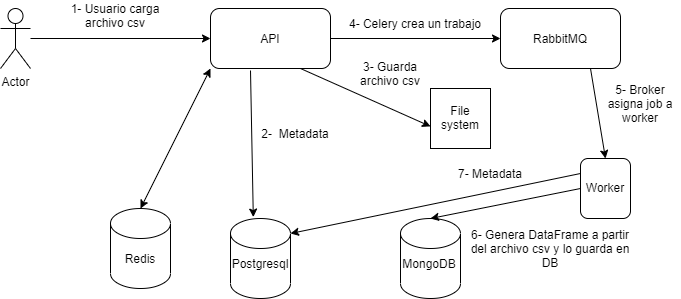
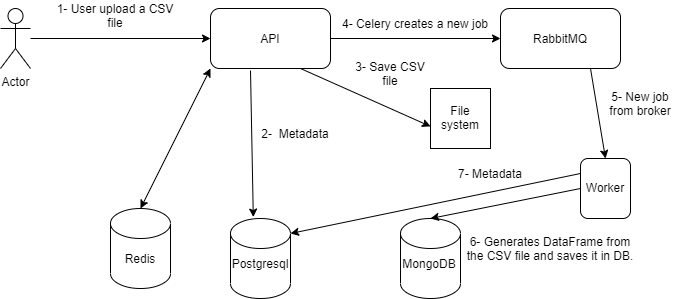
README.md files translated

diff --git a/data/migrations/0207_remove_customer_users_alter_customer_customer_code_and_more.py b/data/migrations/0207_remove_customer_users_alter_customer_customer_code_and_more.py
@@ -1,0 +1,37 @@
+# Generated by Django 4.0.2 on 2022-03-02 16:55
+
+from django.db import migrations, models
+
+
+class Migration(migrations.Migration):
+
+    dependencies = [
+        ('data', '0206_alter_customer_customer_code_and_more'),
+    ]
+
+    operations = [
+        migrations.RemoveField(
+            model_name='customer',
+            name='users',
+        ),
+        migrations.AlterField(
+            model_name='customer',
+            name='customer_code',
+            field=models.UUIDField(default='911e1051-cce7-4f6f-8b44-f7a2e318c2cd', primary_key=True, serialize=False),
+        ),
+        migrations.AlterField(
+            model_name='customerinput',
+            name='customer_input_code',
+            field=models.UUIDField(default='ec625526-a7c4-4933-9809-f60406bde6f6', primary_key=True, serialize=False),
+        ),
+        migrations.AlterField(
+            model_name='customerusergroup',
+            name='customer_user_group_code',
+            field=models.UUIDField(default='c9f83c90-839d-46d4-8d70-3de60c5fa854', editable=False, primary_key=True, serialize=False),
+        ),
+        migrations.AlterField(
+            model_name='product',
+            name='product_code',
+            field=models.UUIDField(default='5b571ddf-f26e-41bd-96f2-4977bcad6559', primary_key=True, serialize=False),
+        ),
+    ]

diff --git a/data/migrations/0204_alter_customer_customer_code_and_more.py b/data/migrations/0204_alter_customer_customer_code_and_more.py
@@ -1,0 +1,33 @@
+# Generated by Django 4.0.2 on 2022-03-02 16:33
+
+from django.db import migrations, models
+
+
+class Migration(migrations.Migration):
+
+    dependencies = [
+        ('data', '0203_alter_customer_customer_code_and_more'),
+    ]
+
+    operations = [
+        migrations.AlterField(
+            model_name='customer',
+            name='customer_code',
+            field=models.UUIDField(default='8e8c605b-72e5-409f-b8ca-a0dab728463f', primary_key=True, serialize=False),
+        ),
+        migrations.AlterField(
+            model_name='customerinput',
+            name='customer_input_code',
+            field=models.UUIDField(default='17b6d586-72ae-4709-a1dd-d4b4a1c9adc5', primary_key=True, serialize=False),
+        ),
+        migrations.AlterField(
+            model_name='customerusergroup',
+            name='customer_user_group_code',
+            field=models.UUIDField(default='97d10816-65fc-46e5-b04a-319d075200f6', editable=False, primary_key=True, serialize=False),
+        ),
+        migrations.AlterField(
+            model_name='product',
+            name='product_code',
+            field=models.UUIDField(default='81d7aea1-a8d9-4aee-9213-485761878e53', primary_key=True, serialize=False),
+        ),
+    ]

diff --git a/data/migrations/0205_alter_customer_customer_code_and_more.py b/data/migrations/0205_alter_customer_customer_code_and_more.py
@@ -1,0 +1,33 @@
+# Generated by Django 4.0.2 on 2022-03-02 16:36
+
+from django.db import migrations, models
+
+
+class Migration(migrations.Migration):
+
+    dependencies = [
+        ('data', '0204_alter_customer_customer_code_and_more'),
+    ]
+
+    operations = [
+        migrations.AlterField(
+            model_name='customer',
+            name='customer_code',
+            field=models.UUIDField(default='80845e58-6609-4087-8fa1-56cf31662c28', primary_key=True, serialize=False),
+        ),
+        migrations.AlterField(
+            model_name='customerinput',
+            name='customer_input_code',
+            field=models.UUIDField(default='7f5fe72b-eefa-42b6-8fd6-3b8c1a527c8e', primary_key=True, serialize=False),
+        ),
+        migrations.AlterField(
+            model_name='customerusergroup',
+            name='customer_user_group_code',
+            field=models.UUIDField(default='012fc7c7-d7be-4db8-83be-840b9902e77c', editable=False, primary_key=True, serialize=False),
+        ),
+        migrations.AlterField(
+            model_name='product',
+            name='product_code',
+            field=models.UUIDField(default='5e2b2eac-c591-44d3-9691-aa497b81885d', primary_key=True, serialize=False),
+        ),
+    ]

diff --git a/data/migrations/0206_alter_customer_customer_code_and_more.py b/data/migrations/0206_alter_customer_customer_code_and_more.py
@@ -1,0 +1,33 @@
+# Generated by Django 4.0.2 on 2022-03-02 16:51
+
+from django.db import migrations, models
+
+
+class Migration(migrations.Migration):
+
+    dependencies = [
+        ('data', '0205_alter_customer_customer_code_and_more'),
+    ]
+
+    operations = [
+        migrations.AlterField(
+            model_name='customer',
+            name='customer_code',
+            field=models.UUIDField(default='4f8303fd-b7b5-48fc-b978-dddc69f2ef2b', primary_key=True, serialize=False),
+        ),
+        migrations.AlterField(
+            model_name='customerinput',
+            name='customer_input_code',
+            field=models.UUIDField(default='48ee9517-67b4-4958-bbeb-dcc7831579a1', primary_key=True, serialize=False),
+        ),
+        migrations.AlterField(
+            model_name='customerusergroup',
+            name='customer_user_group_code',
+            field=models.UUIDField(default='c0f9c1ff-0f41-4b84-9992-aad15eb3e5c1', editable=False, primary_key=True, serialize=False),
+        ),
+        migrations.AlterField(
+            model_name='product',
+            name='product_code',
+            field=models.UUIDField(default='df1c5e94-2b90-4707-bcbb-c6e106360651', primary_key=True, serialize=False),
+        ),
+    ]

diff --git a/README.md b/README.md
@@ -1,46 +1,50 @@
 # DataCore.
 
-# Contenido.
+# Content.
 
 - [DataCore.](#datacore)
-- [Contenido.](#contenido)
-  - [Introduccion.](#introduccion)
-  - [Tecnologias.](#tecnologias)
-  - [Requerimientos.](#requerimientos)
+- [Content.](#content)
+  - [Introduction.](#introduction)
+  - [Technologies.](#technologies)
+  - [Requirements.](#requirements)
   - [RunServer.](#runserver)
-  - [Diagramas.](#diagramas)
+    - [Used ports.](#used-ports)
+  - [Diagrams.](#diagrams)
 
-## Introduccion.
+## Introduction.
 
-La idea principal de este proyecto es desarrollar un servicio que toma como input un archivo
-.csv guarda la metadata del archivo en una base de datos relacional (Postgresql) y los datos 
-en una base de datos no-sql (Mongodb).
+The main idea of this project is to develop a service that takes as input a .csv file, saves the metadata of the file in a relational database (Postgresql), and the data, inside the file, in a non-SQL database (MongoDB). 
+Then the data in the MongoDB will be used to create a
+ dataset, which in the end will feed a machine learning model.
 
-Luego los datos en la base de datos Mongodb seran utilizados para crear un dataset, que al 
-final sera utilizado para alimentar un modelo de machine learning.
+## Technologies.
 
-## Tecnologias.
-- Docker, contenedor de aplicaciones, todos los servicios estan conectados y trabajan en conjunto gracias a la utilizacion de docker-compose.
-- Django y Django Rest, es un framework para el desarrollo de APIs, esta escrito en Python.
-- Postgresql, para guardar los datos de los usuarios y la metada en general.
-- Mongodb, base de datos no relacional, sera la responsablde de guardar los dataframes que seran utilizados para alimentar el modelo de machine learning.
-- Redis, motor de base de datos en memoria, sera la encargada de cachear ciertas peticiones de nuestro servicio.
-- Celery, es un distribuidor asincrono de tareas.
-- Rabbitmq, como broker de mensajes, trabaja en conjunto con celery.
-- Pandas, un excel en esteroides.
+- Docker, application container, all services are connected and work together thanks to the use of docker-compose.
+- Django and Django Rest, a framework for API development, written in Python.
+- Postgresql, to store user data and metadata in general.
+- MongoDB, a non-relational database, will be responsible for storing the data frames that will be used to feed the machine learning model.
+- Redis, an in-memory database engine, will be in charge of caching certain requests of our service.
+- Celery, an asynchronous task distributor.
+- Rabbitmq, as a message broker, works in conjunction with celery.
+- Pandas, an excel on steroids.
+- OpenApi, for service documentation.
 
-## Requerimientos.
-Estos son unos requerimientos ficticios, utilizados para poder implementar varias tecologias en las que estoy interesado.
+## Requirements.
 
-Una empresa de retail necesita un servicio que pueda realizar un cluster de clientes de acuerdo a habitos de compras, y necesita visualizarlo a traves de un dashboard, para poder armar campañas de marketing mas efectivas.
+These are some fictitious requirements, used to implement several technologies I am interested in.
 
-Teniendo en cuenta los requerimientos del negocio, el servicio debe de manejar el registro de usuarios y clientes. Cada cliente podra tener mas de una sucursal. 
-El cliente cargara el archivo csv a travez de un servcio que se encargara de extraer la data, generar un dataframe y almacenar; la data extraida en un base de datos, y el archivo csv en un sistema de archivos.
-El siguiente paso consiste en procesar dichos dataframes a travez de un modelo de machine learning y el resultado guardarlo en una base de datos para luego generar infomes del mismo.
+A retail company needs a service that can make a cluster of customers according to shopping habits and needs to visualize it through a dashboard, in order to build more effective marketing campaigns.
+
+Taking into account the requirements of the business, the service should manage the registration of users and customers. Each customer can have more than one retail store. 
+
+The client will upload the CSV file through a service that will extract the data, generate a data frame, and store; the extracted data in a database, and the CSV file in a file system.
+
+The next step is to process these data frames through a machine learning model and from the results generate reports.
 
 ## RunServer.
 
-Para poder levantar el ambiente de desarrollo es necesario clonar el repositorio, y crear un archivo .env en la raiz del mismo, dicho archivo debe tener las configuraciones y credenciales necesarias.
+In order to build the development environment, it is necessary to clone the repository and create a .env file in the root of the repository, this file must have the necessary configurations and credentials.
+
 
 ```
 git clone url
@@ -78,35 +82,45 @@ RABBITMQ_DEFAULT_PASS=
 RABBITMQ_DEFAULT_VHOST=/
 RABBITMQ_DEFAULT_HOST=rabbitmq
 ```
-El siguiente comando indica al docker el archivo .env y que realice una build sin usar la cache.
+
+The following command tells Docker to use the .env file to build without using the cache.
+
 ```
 docker-compose --env-file .env up --build
 ```
 
 
+### Used ports.
 
-## Diagramas.
-En la siguiente imagene podemos ver el flujo cuando el usuario carga un archivo csv.
+| SERVICE | PORT | 
+|--|--|
+| REST-API | 8000|
+| ADMINER | 8080 |
+| OPENAPI | 8181 |
+
+## Diagrams.
+
+In the following image, we can see the flow when the user loads a CSV file.
 
 ![Usuario carga archivo csv](diagram-images/user-save-csv.png)
 
-  1. El usuario carga el archivo csv a travez del servicio.
-     1. El servicio genera un hash por cada archivo que recibe, y lo guarda como metadata, luego compara si dicho hash ya existe en la base de datos, de ser asi, envia un error diciendo que el archivo ya fue alzado.
-  2. Se guarda metadatos del archivo y el usuario.
-  3. Guarda el archivo csv en un sistema de archivos.
-  4. Celery crea un trabajo asincrono y lo pasa al broker.
-  5. El worker verifica si existen trabajos en el broker.
-  6. El worker genera un dataframe a partir de los datos dentro del archivo csv, dicho dataframe es guardado en la base de datos mongo, y mas metadata es agregada a la base de datos postgres.
+ 1. The user loads the CSV file through the service.
+     1. The service generates a hash for each file it receives and saves it as metadata, then compares if the hash already exists in the database, if so, it sends an error saying that the file has already been uploaded.
+  2. It saves metadata of the file and the user.
+  3. Saves the CSV file to a file system.
+  4. Celery creates an asynchronous job and passes it to the broker.
+  5. The worker checks if there are jobs in the broker.
+  6. The worker generates a data frame from the data inside the CSV file, this data frame is stored in the mongo database, and more metadata is added to the Postgres database.
 
-A continuacion una descripcion del flujo cuando el usuario solicita un informe.
+Below is a description of the flow when the user requests a report.
 
 ![Usuario solicita informe](diagram-images/user-request-new-report.png)
 
-  1. El usuario solicita un informe.
-  2. La API verifica si los datos se encuentran cacheados.
-  3. A traves de celery se crea un nuevo job que es enviado al broker.
-  4. El worker toma un nuevo trabajo.
-  5. Verifica si existen datos del cliente en la base de datos postgresql, de ser asi, extrae sus datos y metadatos.
-  6. Obtiene los dataframes correspondiente a ese usuario.
-  7. Analiza los dataframes con un modelo de machine learning dedicado al clustering. 
-  8. Guarda la informacion en postgresql y notifica al usuario.
+  1. The user requests a report.
+  2. The API checks if the data is cached.
+  3. A new job is created through celery and sent to the broker.
+  4. The worker takes a new job.
+  5. It verifies if the client's data exists in the PostgreSQL database, if so, it extracts its data and metadata.
+  6. It obtains the data frames corresponding to that user.
+  7. Analyze the data frames with a machine learning model for clustering. 
+  8. Saves the information in PostgreSQL and notifies the user.

diff --git a/.bitacora.md b/.bitacora.md
@@ -26,3 +26,7 @@ Queda pendiente la actualizacion del archivo OpenApi, y agregar mas detalles den
 ## 01032022
 El problema del grupo entre customer y user al parecer queda solucionado agregando db_column en la columna user y customer de customer_user_group.
 Se actualizo el archivo OpenApi3.0.2.yml
+
+## 02032022
+Aun persiste el problema con el grupo entre customer y el  nuevo usuario.
+Se ha realizado la traduccion del readme.
